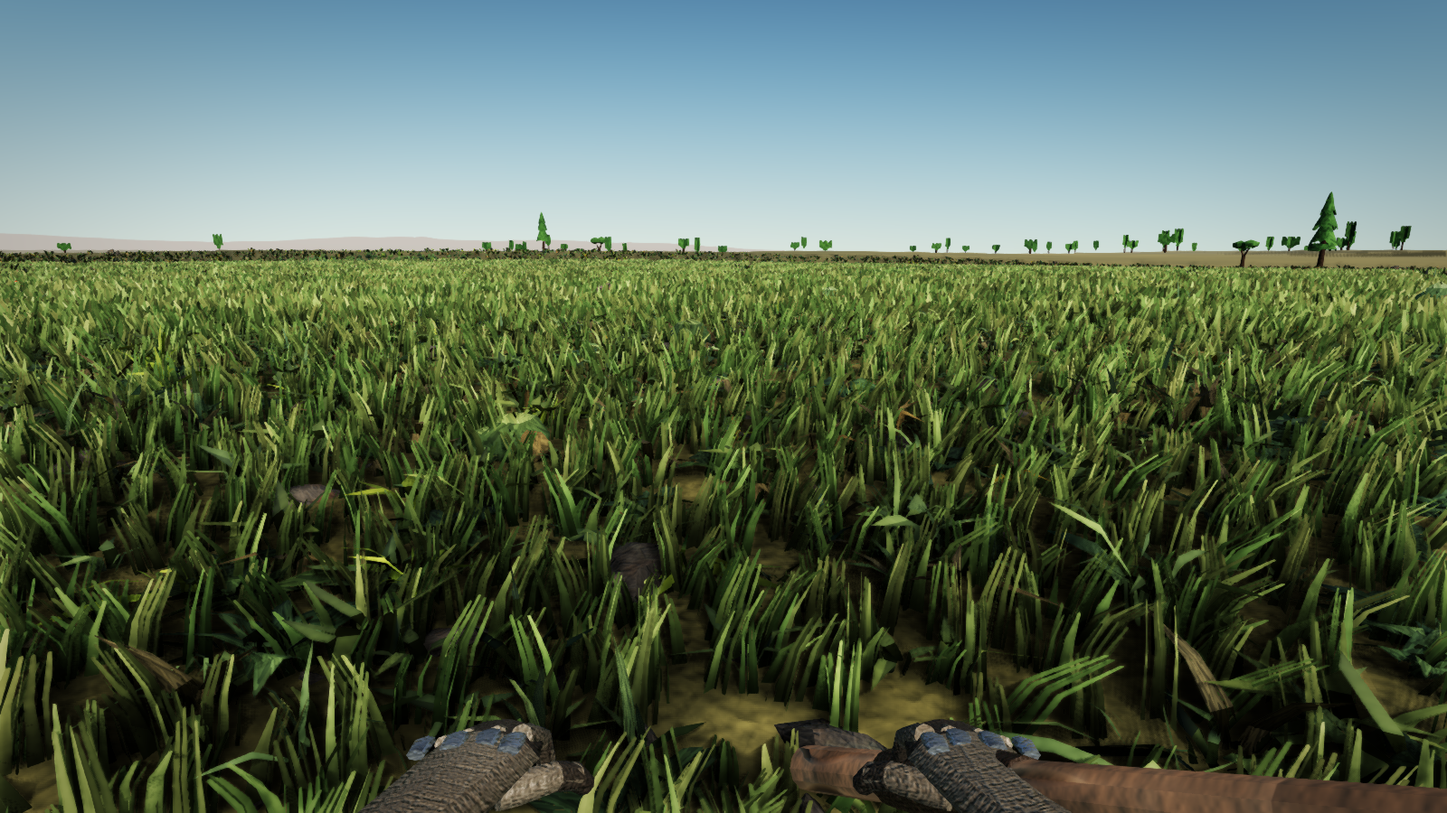
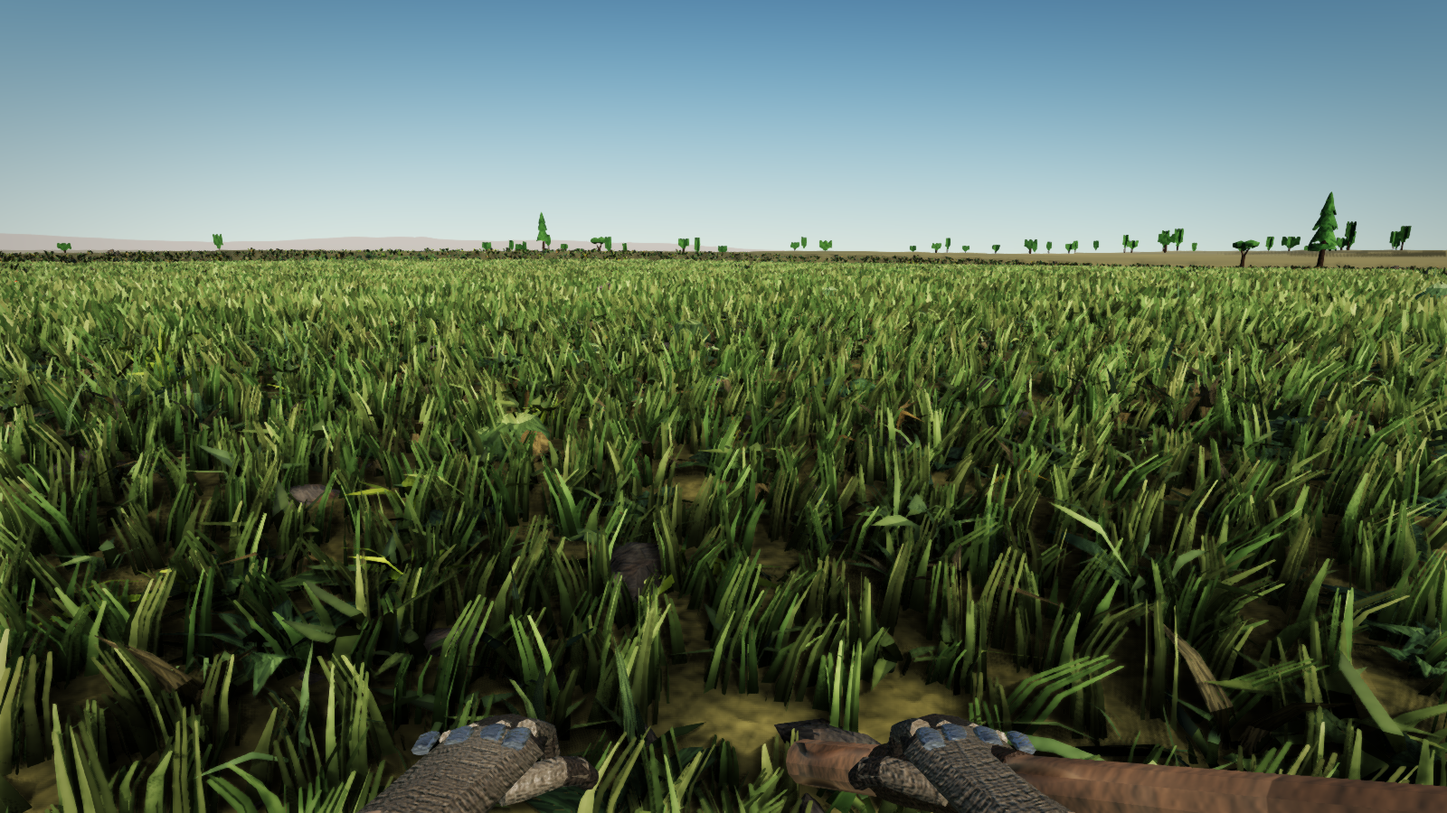
rendering: land the carpet's record (RN-2145)
rendering.md gains section 2.11 and a banner note; NUMBERS.md's RN-2145 row
carries the honest usage, RN-2153 to RN-2159 surrendered unused per rule 4.

Final hero frames re-taken on the shipped build (meadow, forestfloor, vista),
plus the four AO control arms and the ?grasstint=0 isolator, ten frames in all
at docs/screenshots/RN2145_*.

Systems.ts's addition trimmed from twelve lines to four, because that file was
ALREADY 418 lines against the 400 cap at the base commit and a lane should not
make a standing offender worse than it has to: 433 to 425.

Gates: tsc clean, vite build clean, npm run check 6 of 7 with only the
pre-existing check:limits red, check:probes PASS at 330 files, check:boot PASS.
Served on 127.0.0.1:5271 with a sentinel written into this worktree's own dist
and fetched back before the first probe; port ownership confirmed by
Get-NetTCPConnection. web/wasm/dist and test/expected.json untouched.

Changed region(s): [[0.5312, 0.8711, 0.9062, 1.0], [0.25, 0.8711, 0.4062, 1.0]]

diff --git a/web/src/app/Systems.ts b/web/src/app/Systems.ts
@@ -386,21 +386,12 @@ export function registerSystems(s: Services, loop: Loop): void {
     // rebased every 4 km, so a radius measured from it would put the foliage
     // ring kilometres away from the player.
     s.scatter.update(s.terrain.residentViews.values(), eye);
-    // RN-2145. The ground-cover carpet, on the same views and the same eye.
-    //
-    // PIXELS PER RADIAN IS PUSHED AND NOT ASSUMED. The carpet's fade is
-    // expressed in apparent size (GrassTuning's FADE_PX note: a fade constant
-    // must be derived from what it protects, RN-1855), so it needs the one
-    // quantity that turns metres at a range into pixels on this frame:
-    // drawingBufferHeight / (2 tan(fovY/2)). Reading it here rather than
-    // caching it is what makes the fade move with a resize instead of quietly
-    // becoming a metre value that was right once.
-    // `domElement.height` IS the drawing-buffer height (the canvas attribute,
-    // not the CSS box), so it already carries the device pixel ratio and does
-    // not need one applied.
-    const dbh = s.renderer.domElement.height;
+    // RN-2145. The carpet, same views, same eye. The third argument is pixels
+    // per radian (`domElement.height` IS the drawing buffer, so the device
+    // ratio is already in it); the carpet's fade is in apparent size and is
+    // read live so a resize moves it. See GrassCover.update and GrassTuning.
     s.grass.update(s.terrain.residentViews.values(), eye,
-      dbh / (2 * Math.tan((cam.fov * Math.PI) / 360)));
+      s.renderer.domElement.height / (2 * Math.tan((cam.fov * Math.PI) / 360)));
     // RN-821. THE STATION, recomposed from its f64 body-frame pose, every
     // frame, and never cached in engine space. Here rather than in `onDrain`
     // for the reason the vessel is here: the visibility gate is a distance

diff --git a/docs/controllers/rendering.md b/docs/controllers/rendering.md
@@ -1,6 +1,6 @@
 # Rendering & Graphics: Master Controller Context
 
-> **Domain owner:** `rendering-controller` | **Reports to:** Admin | **Phase:** WEB (three.js, DW-1 pivot) | **Last updated:** 2026-08-19 (RN-2065 to RN-2075 used of the RN-2065 to RN-2084 block, `lane/world-audit`: **THE WORLD LOOK AUDIT. THE WORLD IS FINISHED TO ABOUT FORTY METRES AND UNFINISHED PAST IT, AND NINE OF THE TEN CANONICAL FRAMES WERE TAKEN INSIDE THAT FORTY METRES.** Full ranked queue with evidence in [docs/web/WORLD-AUDIT-2026-08-19.md](../web/WORLD-AUDIT-2026-08-19.md), summarised in section 2.10 below. **FIVE NEW CANONICAL POSES** in `artframe.js` (`vista`, `vistadawn`, `vistanoon` at one pose one `sunDot` apart on a Mountains ridge; `flyover` at 1,200 m and `limb` at 120 km, both of which needed their own `--scenario=` because **`Controller.teleport` DISCARDS its altitude argument** and a walk-mode run would have photographed the ground with every field reading correct). **THE FOUR MEASUREMENTS THAT RANK THE QUEUE.** (1) **A `?atmos=0` NEGATIVE CONTROL SPLITS ONE APPARENT DEFECT INTO TWO**: at 1,200 m the horizon band reads iqr **20.08 with the atmosphere and 89.17 without** (the haze is taking **77.5%** of the distance) while the ground DIRECTLY BELOW reads **7.79 and 7.21**, i.e. the haze takes none of it and that flatness is terrain with no material to lose. Either finding alone would have been filed as the other. (2) **THE DAY ARC INVERTS THE FRAME**: at one fixed pose, sun 66.89 -> 44.31 -> 5.85 degrees, near scree luma **167.51 -> 134.14 -> 33.01** while the far ridge goes **205.31 -> 198.86 -> 231.51**, so the far-to-near ratio runs 1.23 -> 1.48 -> **7.01** and at dawn the distance is seven times brighter than the player's feet. (3) **THE SKY BRIGHTENS TOWARD THE SUN AND NEVER REDDENS**: the sun-side sky is **1.84x** the anti-sun side at a 5.85 degree sun (110.83 against 60.35, so the scattering integral does resolve direction and section 8 is a TUNING lane), while the horizon sky's `warm` moves **14.83 counts across 61 degrees of elevation** and sits at -86 at dawn. (4) **THE WORLD EMPTIES THE MOMENT THE EYE LEAVES THE GROUND**: `flyover` is **188,081 triangles at 1,200 m and 231,089 at 400 m** against **2,759,465** at a standing eye on plains, with not one tree in any aerial frame and both `?atmos=0` controls proving they are ABSENT rather than hazed. **AND THE COST CEILING IS ALREADY BREACHED WITHOUT ANY OF THIS**: that 2,759,465-triangle plains frame is 71 calls, over `StatsProbe`'s ALERT triangle threshold and over the 16.6 ms frame budget on every box measured, at a ratio of about 4.5x against the vista pose's cost (absolute milliseconds are box-and-run-dependent: this audit's p50 read 32.1 ms), at a standing eye with nothing built; `midfield` p99 is **64.6 ms**. **NOT ONE OF THE TOP FIVE GAPS NEEDS WEBGPU OR NATIVE**, and the audit says so with reasons rather than as an opinion: the two atmosphere gaps are shader-local in `ofAtmoAerial` and `TerrainFragLight`, the vegetation gap is a third baked LOD rung in a pipeline that already bakes LOD2, the shadow gap is a fourth cascade plus a heightfield horizon term, and the one plausible (c) is DISTANT GEOMETRIC relief, handed to the RN-2085 ceiling study with this lane's numbers attached. **TWO GREENS WORTH THE SAME WEIGHT AS THE REDS**: the `limb` frame at 120 km is **AT BAR** (ring luma 93.27, iqr 101.39, sat 0.626 over a 0.10 sky, 52,913 triangles, 21 calls, p50 1.1 ms) and the atmosphere is a real shared analytic integral rather than a gradient. **ONE LATENT DEFECT FOUND AND FIXED**: `artframe.js` read `of.game().mode` and `of.game()` is null with no gameplay, so the first shot ever run outside `--scenario=walk` died with a TypeError out of `page.evaluate` before any shot code ran. **`station` CAME BACK INTERIOR AGAIN** (`drawEyeDistM` 4.316; `alpha` varies per run and stays inside [0,1] -- this audit read 0.924 -- so the RN-2035 clamp is ruled out and INTERIOR is the stable fact), so section 2.8 R5 stays open and is re-flagged rather than re-diagnosed.) (**RN-2085 to RN-2090 used of the RN-2085 to RN-2099 block, `lane/ceiling-study`: THE BROWSER IS NOT THE BLOCKER, and the measurement says where the blocker is. Full document at [docs/web/CEILING-STUDY-2026-08-19.md](../web/CEILING-STUDY-2026-08-19.md); the decision row is RN-2085 in §3 below; the six questions for Reid are §7 of that document. Headline: ~10 ms/frame at `forestfloor` on a real D3D11 RTX 4060 Ti at 1600x900 against a 16.6 ms budget, 76 of 150 budgeted draw calls, 1.45 M of 2.7 M budgeted triangles, and 58.8 PER CENT OF EVERY TRIANGLE IN THE FRAME IS SHADOW-MAP GEOMETRY, which is §2.8 R2's already-diagnosed foliage-LOD defect and not a platform property. Two instruments landed, `web/tools/smoke/probes/ceiling.js` and `web/tools/smoke/ceilingsweep.mjs`; no game code.**) (Earlier the same day: RN-2050 to RN-2052 used of the RN-2050 to RN-2059 block, `lane/rn-resisters`, THE THREE RENDERING LINE-CAP RESISTERS DECOMPOSED RATHER THAN EXEMPTED, per Reid's ruling of the same day. `check:limits` **51 -> 48**, `cd web && npm run check` **6 of 7** with only the pre-existing `check:limits` red and `check:boot` green. **`TerrainMaterial.ts` 989 -> 53**, `createTerrainMaterials` (565 lines) decomposed into four named phases over one explicit state object whose type is `ReturnType<typeof buildTerrainUniformState>`, derived rather than declared so the two cannot drift; six siblings (`TerrainUniformState`, `TerrainProgram`, `TerrainArtHandle`, `TerrainAmpQuery`, `TerrainReliefQuery`, `TerrainMaterialTypes`). **`TerrainShader.ts` 884 -> 64**, the 690-line GLSL `main()` split into five named chunk constants concatenated in identical order (`TerrainFragPars/Setup/Albedo/Bump/Light.glsl.ts`), **proven BYTE-IDENTICAL** rather than merely pixel-close (real modules, log 90,439 chars sha256 `bdf0ec82...`, plain 90,372 sha256 `8fd8f416...`; an earlier stubbed-harness figure published in this row was corrected, see RN-2054). **`Scatter.ts` 714 -> 365**, the 200-line sampler and the nineteen counters given explicit state (`ScatterSample`, `ScatterCounters`, `ScatterTypes`); its `forestfloor` frame is **bit-identical** to a HEAD-source frame from a different build and process. **THE FINDING THAT GENERALISES IS ABOUT THE INSTRUMENT, NOT THE THREE FILES: a same-build pngdiff control taken inside ONE server process is not a noise band.** Two back-to-back `midfield` shots on one process measured 0.00% and looked like determinism; rebuilding the SAME HEAD source into a fresh process and re-shooting put the real same-source band at **0.00% to 2.94%** for `midfield` and **1.61% to 3.92%** for `forestfloor`. The same trap sits in the probe reports: **139 fields of the three terrain probes differ between HEAD and a HEAD REBUILD**, against 140 for the TerrainMaterial split, so a bare "N fields moved" reading would have condemned a behaviour-preserving change. See RN-2050 to RN-2054 in section 3 and NUMBERS.md's RN-2050 to RN-2059 row.)
+> **Domain owner:** `rendering-controller` | **Reports to:** Admin | **Phase:** WEB (three.js, DW-1 pivot) | **Last updated:** 2026-08-19 (**RN-2145 to RN-2152 used of the RN-2145 to RN-2159 block, `lane/a2-carpet`: THE GROUND-COVER CARPET, fidelity lane A2, closing the gap analysis section 1 difference 1. Two GPU-instanced rungs behind TWO draw calls, reusing texgen's existing grass card unchanged; every blade takes the terrain's own albedo beneath it and rotates it toward green AT CONSTANT LUMINANCE, so the fade cannot show as a value step; the fade itself is expressed in PIXELS of apparent card height and computed live from the camera, not typed in metres. Measured at the new `meadow` pose on real D3D11: 74,939 instances, +2 draw calls, +254,518 triangles (+9.2%), VRAM and programs unmoved, frame cost -0.44 ms against within-arm spreads of 3.83 and 2.10 and therefore NOT SEPARATED. Determinism proven by a full drop-and-rebuild round trip, digest identical. **THE LARGEST FINDING IS OWED TO LANE A1: screen-space AO takes 44 to 57 per cent of the carpeted ground's luminance against 31 to 32 per cent of the bare ground's, which is the whole difference between the carpet reading brighter than the ground it replaced (+14%, AO off) and darker (-7% at 8 m, -34% at 4 m, AO on).** Four defects were found by LOOKING and none of them by a number: the card mips to a solid wedge, the blades read as shark fins, the field reads as a pin cushion, the colour reads as a lawn. And the fixture was wrong before the feature was: `meadow`'s first rectangles landed at 3.8 to 11.8 m and never reached the mid field. Full record in section 2.11 below.**) (RN-2065 to RN-2075 used of the RN-2065 to RN-2084 block, `lane/world-audit`: **THE WORLD LOOK AUDIT. THE WORLD IS FINISHED TO ABOUT FORTY METRES AND UNFINISHED PAST IT, AND NINE OF THE TEN CANONICAL FRAMES WERE TAKEN INSIDE THAT FORTY METRES.** Full ranked queue with evidence in [docs/web/WORLD-AUDIT-2026-08-19.md](../web/WORLD-AUDIT-2026-08-19.md), summarised in section 2.10 below. **FIVE NEW CANONICAL POSES** in `artframe.js` (`vista`, `vistadawn`, `vistanoon` at one pose one `sunDot` apart on a Mountains ridge; `flyover` at 1,200 m and `limb` at 120 km, both of which needed their own `--scenario=` because **`Controller.teleport` DISCARDS its altitude argument** and a walk-mode run would have photographed the ground with every field reading correct). **THE FOUR MEASUREMENTS THAT RANK THE QUEUE.** (1) **A `?atmos=0` NEGATIVE CONTROL SPLITS ONE APPARENT DEFECT INTO TWO**: at 1,200 m the horizon band reads iqr **20.08 with the atmosphere and 89.17 without** (the haze is taking **77.5%** of the distance) while the ground DIRECTLY BELOW reads **7.79 and 7.21**, i.e. the haze takes none of it and that flatness is terrain with no material to lose. Either finding alone would have been filed as the other. (2) **THE DAY ARC INVERTS THE FRAME**: at one fixed pose, sun 66.89 -> 44.31 -> 5.85 degrees, near scree luma **167.51 -> 134.14 -> 33.01** while the far ridge goes **205.31 -> 198.86 -> 231.51**, so the far-to-near ratio runs 1.23 -> 1.48 -> **7.01** and at dawn the distance is seven times brighter than the player's feet. (3) **THE SKY BRIGHTENS TOWARD THE SUN AND NEVER REDDENS**: the sun-side sky is **1.84x** the anti-sun side at a 5.85 degree sun (110.83 against 60.35, so the scattering integral does resolve direction and section 8 is a TUNING lane), while the horizon sky's `warm` moves **14.83 counts across 61 degrees of elevation** and sits at -86 at dawn. (4) **THE WORLD EMPTIES THE MOMENT THE EYE LEAVES THE GROUND**: `flyover` is **188,081 triangles at 1,200 m and 231,089 at 400 m** against **2,759,465** at a standing eye on plains, with not one tree in any aerial frame and both `?atmos=0` controls proving they are ABSENT rather than hazed. **AND THE COST CEILING IS ALREADY BREACHED WITHOUT ANY OF THIS**: that 2,759,465-triangle plains frame is 71 calls, over `StatsProbe`'s ALERT triangle threshold and over the 16.6 ms frame budget on every box measured, at a ratio of about 4.5x against the vista pose's cost (absolute milliseconds are box-and-run-dependent: this audit's p50 read 32.1 ms), at a standing eye with nothing built; `midfield` p99 is **64.6 ms**. **NOT ONE OF THE TOP FIVE GAPS NEEDS WEBGPU OR NATIVE**, and the audit says so with reasons rather than as an opinion: the two atmosphere gaps are shader-local in `ofAtmoAerial` and `TerrainFragLight`, the vegetation gap is a third baked LOD rung in a pipeline that already bakes LOD2, the shadow gap is a fourth cascade plus a heightfield horizon term, and the one plausible (c) is DISTANT GEOMETRIC relief, handed to the RN-2085 ceiling study with this lane's numbers attached. **TWO GREENS WORTH THE SAME WEIGHT AS THE REDS**: the `limb` frame at 120 km is **AT BAR** (ring luma 93.27, iqr 101.39, sat 0.626 over a 0.10 sky, 52,913 triangles, 21 calls, p50 1.1 ms) and the atmosphere is a real shared analytic integral rather than a gradient. **ONE LATENT DEFECT FOUND AND FIXED**: `artframe.js` read `of.game().mode` and `of.game()` is null with no gameplay, so the first shot ever run outside `--scenario=walk` died with a TypeError out of `page.evaluate` before any shot code ran. **`station` CAME BACK INTERIOR AGAIN** (`drawEyeDistM` 4.316; `alpha` varies per run and stays inside [0,1] -- this audit read 0.924 -- so the RN-2035 clamp is ruled out and INTERIOR is the stable fact), so section 2.8 R5 stays open and is re-flagged rather than re-diagnosed.) (**RN-2085 to RN-2090 used of the RN-2085 to RN-2099 block, `lane/ceiling-study`: THE BROWSER IS NOT THE BLOCKER, and the measurement says where the blocker is. Full document at [docs/web/CEILING-STUDY-2026-08-19.md](../web/CEILING-STUDY-2026-08-19.md); the decision row is RN-2085 in §3 below; the six questions for Reid are §7 of that document. Headline: ~10 ms/frame at `forestfloor` on a real D3D11 RTX 4060 Ti at 1600x900 against a 16.6 ms budget, 76 of 150 budgeted draw calls, 1.45 M of 2.7 M budgeted triangles, and 58.8 PER CENT OF EVERY TRIANGLE IN THE FRAME IS SHADOW-MAP GEOMETRY, which is §2.8 R2's already-diagnosed foliage-LOD defect and not a platform property. Two instruments landed, `web/tools/smoke/probes/ceiling.js` and `web/tools/smoke/ceilingsweep.mjs`; no game code.**) (Earlier the same day: RN-2050 to RN-2052 used of the RN-2050 to RN-2059 block, `lane/rn-resisters`, THE THREE RENDERING LINE-CAP RESISTERS DECOMPOSED RATHER THAN EXEMPTED, per Reid's ruling of the same day. `check:limits` **51 -> 48**, `cd web && npm run check` **6 of 7** with only the pre-existing `check:limits` red and `check:boot` green. **`TerrainMaterial.ts` 989 -> 53**, `createTerrainMaterials` (565 lines) decomposed into four named phases over one explicit state object whose type is `ReturnType<typeof buildTerrainUniformState>`, derived rather than declared so the two cannot drift; six siblings (`TerrainUniformState`, `TerrainProgram`, `TerrainArtHandle`, `TerrainAmpQuery`, `TerrainReliefQuery`, `TerrainMaterialTypes`). **`TerrainShader.ts` 884 -> 64**, the 690-line GLSL `main()` split into five named chunk constants concatenated in identical order (`TerrainFragPars/Setup/Albedo/Bump/Light.glsl.ts`), **proven BYTE-IDENTICAL** rather than merely pixel-close (real modules, log 90,439 chars sha256 `bdf0ec82...`, plain 90,372 sha256 `8fd8f416...`; an earlier stubbed-harness figure published in this row was corrected, see RN-2054). **`Scatter.ts` 714 -> 365**, the 200-line sampler and the nineteen counters given explicit state (`ScatterSample`, `ScatterCounters`, `ScatterTypes`); its `forestfloor` frame is **bit-identical** to a HEAD-source frame from a different build and process. **THE FINDING THAT GENERALISES IS ABOUT THE INSTRUMENT, NOT THE THREE FILES: a same-build pngdiff control taken inside ONE server process is not a noise band.** Two back-to-back `midfield` shots on one process measured 0.00% and looked like determinism; rebuilding the SAME HEAD source into a fresh process and re-shooting put the real same-source band at **0.00% to 2.94%** for `midfield` and **1.61% to 3.92%** for `forestfloor`. The same trap sits in the probe reports: **139 fields of the three terrain probes differ between HEAD and a HEAD REBUILD**, against 140 for the TerrainMaterial split, so a bare "N fields moved" reading would have condemned a behaviour-preserving change. See RN-2050 to RN-2054 in section 3 and NUMBERS.md's RN-2050 to RN-2059 row.)
 
 
 
@@ -1861,6 +1861,167 @@ is ruled out). Section 2.8 R5 stays open: INTERIOR is the stable fact and the
 storyline's climax destination still has no judgeable exterior frame. Re-flagged
 rather than re-diagnosed, because it is not a world-graphics question and this
 lane had no mandate to reopen it.
+
+---
+
+## 2.11 THE GROUND-COVER CARPET (RN-2145 to RN-2152, 2026-08-19, `lane/a2-carpet`). FIDELITY LANE A2
+
+> Closes the gap analysis' **section 1 difference 1**: "the ground IS grass
+> there; here grass sits ON the ground", named there as roughly half the
+> perceived gap to the D-020 bar. Judged by the hero-frame process (gap doc
+> Option D), not by instrument deltas. Frames: `docs/screenshots/RN2145_*`.
+
+### 2.11.1 What it is
+
+A **separate layer from the prop scatter**, which keeps bushes and trees. Two
+GPU-instanced rungs behind **two draw calls**, both reusing texgen's existing
+`grass` family (`of_grass_a.png`, 1024, `alpha_test` 0.35): no new texture
+family, no `texgen.py` change, no `ROLE_FAMILY` entry.
+
+| rung | card | tris/instance | density | reach |
+|---|---|---|---|---|
+| tuft | 2 crossed quads, 2 height segments, 0.27 u span (3 painted blades) | 8 | `32 / (1 + d/10)^2` per m2 | 26 m, hands over from 20 m |
+| mat | 1 quad, 1 segment, full 11-blade span, 1.10 x 0.42 m | 2 | 1.55 per m2 flat | 95 m, fades in over 12 to 20 m |
+
+Files: `web/src/render/grass/{GrassTuning,GrassPalette,GrassCard,GrassGlsl,GrassMaterial,GrassPool,GrassSample,GrassCover}.ts`.
+Instruments: `web/tools/smoke/probes/{grasscover,grasswind}.js`. Pose:
+`artframe.js`'s new `meadow` row.
+
+### 2.11.2 The three rules that make it a carpet rather than denser scatter
+
+**COLOUR COMES FROM THE GROUND, AND THE FADE CANNOT SHOW AS A VALUE STEP.**
+Every instance samples `BiomePalette.terrainAlbedo` at its own cell (the
+acknowledged CPU twin of the four lines the terrain fragment draws the ground
+with) and rotates it toward green **at constant Rec.709 luminance**
+(`GrassPalette.coverAlbedo`). Worked: Plains `0x6d6a47` is linear (0.153, 0.144,
+0.063), luma 0.140; the rotation gives `#4E723E` at luma 0.140 exactly. So what
+is lost across the fade is chroma and texture, never light. **Measured with the
+one-flag isolator `?grasstint=0`** (blades exactly the substrate colour): the
+rotation costs 1 to 3 per cent of luma at every range rung, which is the
+luminance preservation working.
+
+**LIGHT COMES FROM THE SAME PLACE THE GROUND'S DOES.** The carpet is a
+`ShaderMaterial` holding `TERRAIN_AMBIENT`, `TERRAIN_SKY_AMBIENT`, the
+atmosphere record, `uBodyCenter` and `uCascadeFar` **by reference** (RN-64's
+argument, WaterMaterial's pattern), and inlining the same
+`TERRAIN_SUN_IRRADIANCE`. It is the **fifth ShaderMaterial on the DW-10 ledger**
+and the argument for it is lane A1's measurement: `StockFill.stockFloor` lights
+scattered props from the ambient FLOOR only and the sky-ambient weight never
+reaches an instance, so a carpet lit that way would sit in the old grey floor
+while the ground under it wore the sky tint.
+
+**THE FADE IS IN PIXELS, NOT METRES** (RN-1855's derive-do-not-type rule).
+`px = cardHeight * grow * (viewportH / (2 tan(fovY/2))) / dist`, computed live
+in the vertex shader from the camera's own pixels per radian, which `Systems`
+pushes each frame. At the reference viewport the window lands at about **60 to
+92 m**, and the metres are the consequence rather than the input.
+
+### 2.11.3 What the frames found that no number would have
+
+Four defects, each caught by looking and each recorded because the cause is
+reusable:
+
+1. **The card mipped to a solid wedge.** `texgen.py` widened the blade until the
+   coverage cleared the 0.35 cutoff so that "distant mips converge toward solid
+   rather than dissolving". Right for a prop card, wrong for a carpet whose
+   subject IS the gaps. Fixed by fewer wider blades per card (u span 0.42 to
+   0.27) plus a rescale of the sampled alpha about the cutoff; **the texture is
+   untouched, so no prop moves**. `?grasssharp=1` is the exact control.
+2. **Green shark fins.** A 0.18 m card over three blades is a 5 cm blade at
+   30 cm tall, aspect 1:6.7. 0.13 x 0.38 gives 1:10.6 and 6.3 px at 4 m, which
+   is as slim as FXAA-only alpha testing holds still (world-audit gap 17).
+3. **A pin cushion.** Vertical cards have straight silhouettes and nothing in a
+   meadow does. A per-instance LEAN combed by a common bearing derived from
+   PropWind's own phase vector moved the read more than any other change.
+4. **A lawn.** One green per biome measured sat 0.603 against bare ground's
+   0.526. Plains' rotation weight dropped to 0.74 and gained a per-instance DRY
+   DRIFT **along the same line toward the substrate**, so blades vary without
+   any of them being able to disagree with the ground. Now 0.576.
+
+**AND THE FIXTURE WAS WRONG BEFORE THE FEATURE WAS.** `meadow`'s first
+rectangles were hand-written fractions; inverting the range map afterwards put
+them at 3.8, 8.5 and 11.8 m, so **not one reached the mid field**, which is the
+band a carpet is most likely to leave bald and the band the judgement is about.
+At a 2 m eye, 25 to 60 m of ground is about seven pixels, so a hand-picked
+fraction cannot land there. They are `rangeRects [4, 10, 25, 55]` now.
+
+### 2.11.4 The numbers
+
+Real D3D11, RTX 4060 Ti through ANGLE, 1600x900, `meadow` pose (Plains
+-7.9675 / 116.53189, yaw 150, pitch -12, sun dot 0.699 measured):
+
+| quantity | value |
+|---|---|
+| instances | 74,939 (tuft 17,440, mat 57,499) over 25 chunks |
+| draw calls | **+2** (71 to 73), programs **unmoved at 44** |
+| triangles | **+254,518**, 2,762,904 to 3,017,422 (**+9.2%**) |
+| VRAM | **unmoved**, 104.2 MB |
+| resident chunks | **unmoved**, 330 |
+| refused / cells capped / backlog | 0 / 0 / 0 |
+| `placedPerM2` / `askedPerM2` / delivered | 2.12 / 1.89 / **1.123** |
+| frame cost (WG-189, 5 interleaved repeats, 400 frames) | **-0.44 ms against within-arm spreads of 3.83 and 2.10: NOT SEPARATED** |
+
+**The triangle number is the one to argue with, and it is stated as a breach.**
+The plains standing eye was **already over `StatsProbe`'s 2.7 M ALERT before
+this lane** (2,762,904; the world audit flagged the same pose at 2,759,465) and
+the carpet takes it to 3,017,422. Two things bound it and neither is an excuse:
+the carpet **casts no shadow**, so its triangles are drawn ONCE where a prop
+triangle is drawn four times (the ceiling study's 58.8 per cent), and 254,518 is
+**30 per cent of the 853,675 triangles that study priced as recoverable shadow
+waste**. The frame-cost gate the ceiling study asks for would have flagged this,
+and it still does not exist.
+
+**Determinism** (`probes/grasscover.js`, a real round trip and not a re-read:
+1.2 km away so every chunk is dropped, then back so every chunk is rebuilt from
+its own key): digest `54cbcf74-456b1741` to `6ab96204-f8849c97` away (the
+control is armed) to `54cbcf74-456b1741` back, **74,939 instances both times**.
+
+**Wind** (`probes/grasswind.js`, the clock pinned at three offsets in one
+settled sequence, mean per-tile luma change): carpet + props **3.77**, props
+only **2.28** (`?grass=0`), neither **0.63** (`?wind=0`). All three separate.
+The still arm is a control that WENT RED first: `?wind=0` drops PropWind's hook,
+which stops the props and cannot stop a `ShaderMaterial` reading the shared
+clock directly, so the carpet kept swaying with the flag off (34.59 counts where
+there must be none). The carpet now reads PropWind's `enabled`.
+
+### 2.11.5 THE FINDING THIS LANE OWES ANOTHER, AND IT IS THE LARGEST ONE HERE
+
+**Screen-space AO takes 44 to 57 per cent of the carpeted ground's luminance
+against 31 to 32 per cent of the bare ground's, and that alone is the difference
+between the carpet reading brighter than the ground it replaced and darker.**
+Four arms, one flag apart on one build, `meadow` `box`:
+
+| | AO on | AO off | AO takes |
+|---|---|---|---|
+| carpet off | 63.08 | 91.50 | 31.1% |
+| carpet on | 58.66 | 104.47 | **43.9%** |
+
+At the 4 m rung it is worse: bare 58.40 / 85.25 (31.5%), carpeted 38.26 / 89.26
+(**57.1%**). On `forestfloor`, where there is no direct sun to hide it, the
+carpeted floor reads **10.02 with AO on and 26.87 with it off**, against the
+bare floor's 23.98. **So the carpet is not darkening the ground; the AO is
+darkening the carpet.** This is the gap analysis' difference 3 (AO at strength
+0.9, radius 0.9 m reads as hard dark blobs) meeting a layer with real depth
+complexity. `render/post/*` is lane A1's and this lane did not touch it.
+
+### 2.11.6 The seam this lane publishes to A3, and the honest partial result
+
+`GrassPalette.coverAlbedo(substrate, biome, out, dry)` and the `COVER` table are
+**the carpet side of the fade-target contract**. A3's far-field grass layer
+should target `coverAlbedo` at the fade end, and then far ground and near carpet
+agree by construction rather than by tuning.
+
+**Until it does, the residual is real and is visible in the frame:** past the
+fade the ground is the bare biome substrate again, and on the meadow pose that
+is a khaki band along the horizon where the green stops. The luminance-matched
+rotation means it is a CHROMA step and not a value step, and the aerial
+perspective has already taken most of the chroma out by then, but it is there.
+**This lane cannot close it from its own files without repainting the biome
+palette, which is RN-347's decision and A3's ground.**
+
+Two more stated limits: the carpet **casts no shadow** (deliberate, see the
+triangle note), and at 2 to 4 m there is still bare substrate visible between
+blades. The near field reads as a meadow; it does not yet read as turf.
 
 ---
 

diff --git a/docs/web/NUMBERS.md b/docs/web/NUMBERS.md
@@ -252,7 +252,7 @@ is that the numbers are handed out by one writer before the work starts.
 | BT-265 to BT-269 | build-tooling, the EIGHTH invocation-header instance's lesson (BT-260's shadowk truncation): check-invocations.mjs only checks that extractCmd returns something, never that the command is well-formed, so a truncated or quote-broken extraction passes the gate; extend the gate (or a sibling) to run flagsOf on the extraction and JSON.parse any --evalargs value, failing loudly on loss or parse error, proven both ways on the shadowk pre-fix shape | **BT-265 USED**, `lane/verdict-integrity`, 2026-08-19. `check-invocations.mjs` gained `wellFormednessDefects()`: every documented command's flag section is re-tokenised and every token must be a real `--flag`/`--flag=value` (`probeall.mjs`'s own `FLAG_TOKEN_RE`, exported rather than re-derived) or a documented benign marker the corpus already uses on purpose (a trailing `#` shell comment, a `\|` pipe into a second command, a `[--flag=value]` bracket-wrapped optional -- each confirmed against real headers, `deepgate.js`/`goalmoot.js`/`lifeless.js`, `artframe.js`/`stationdraw.js`/`sunshot.js`, `map3d.js`, before being allowlisted, not invented speculatively); every `--evalargs` value is `JSON.parse`d. `probeall.mjs`'s `flagsOf()` exported (was module-private) so the gate reuses the exact tokeniser the sweep itself uses. **Proven both ways, against the REAL file, not a synthetic stand-in**: `shadowk.js` was temporarily edited back to its literal BT-260 pre-fix header (uncommitted, restored after), and the real `check-invocations.mjs` scan caught it by name, `MALFORMED_INVOCATION`, `"--evalargs value is not valid JSON"`; restored, the scan passed clean again. **Building the check surfaced a NINTH, previously undetected instance of the invocation-header class**: `clamprestore.js` carried a stray literal `//` embedded mid-invocation (`--debug=1 //     --evalfile=...`, a merge artifact from collapsing two comment lines into one without stripping the second line's `//` prefix), fixed by restoring the missing line continuation. Corpus-wide after both fixes: 326 probe files, 314 documented, 12 exempt, **0 offenders**. `cd web && npm run check` 6/7, only the pre-existing `check:limits` red. |
 | GP-1070 to GP-1074 | gameplay/probes, two content reds surfaced by verifiers in passing, both pre-existing: clamprestore.js returns an honest RED on a content check unrelated to its BT-265 header fix (diagnose what the check expects against what the game does, fix probe or route the game bug); and probes/cheats.js carries a stale keybinding assertion flagged by the GP-1060 lane (re-aim or reclassify per census conventions) | landed, `lane/probe-reds-2`, 2026-08-19. Both were stale probe assumptions, not game regressions, no bug routed. clamprestore.js: `list[0]` stopped being the rocket once PH-380/D-015 gave Anchorage a real registry record; `promoteVessel` refuses a station by design, so the fixture now selects by `status !== 'station:anchorage'`. cheats.js: `demolish === 'X+Right click'` never caught up to GP-605, which moved Mouse2 to the separate `demolishAsk` action; re-aimed to assert both codes by name. GP-1070/1071 used on clamprestore, GP-1072/1073 on cheats.js, GP-1074 unused (abandoned per this file's own rule). 3/3 green each. |
 | BT-275 to BT-284 | build-tooling/cross-domain, PILOT on the BT-42 line-cap debt that has kept check:limits red for hundreds of commits (54 files over the 400-line cap): split the WORST THREE files into cohesive modules with behaviour-preserving refactors only, each split proven by the probes that exercise the file plus tsc and the full check suite, as a template for retiring the debt file by file; if a file resists cohesive splitting, record why rather than forcing an arbitrary cut | **BT-275 to BT-278 USED**, `lane/limits-pilot`, 2026-08-19. **BT-279 to BT-284 unused, abandoned per rule 4.** `check:limits` **54 -> 51**, `cd web && npm run check` 6/7 with only `check:limits` red, and every other link green (`check:roles` green after BT-278, see below). **THE HEADLINE FINDING, and it is about the DEBT and not about the three files: the top of the list is not splittable.** Of the eight worst offenders, SIX resist a behaviour-preserving cut because essentially the whole file is the body of ONE thing, and rule 1 forbids carving a function mid-body: `TerrainMaterial.ts` 989 (`createTerrainMaterials` is 565 lines, and the ~363 lines of `*FromQuery` helpers above it are movable but leave 615), `DebugGameplay.ts` 895 (`gameplayApi` is 850 of them, a single `return {50 methods}`), `TerrainShader.ts` 884 (134 lines of GLSL declarations plus ONE 690-line GLSL `main()`; the file's own documented extract-a-chunk-to-a-sibling mechanism reaches only 750, and every further cut goes through `main()`'s body), `Boot.ts` 822 (`boot()` is 713, one order-dependent async construction sequence), and by the same shape `Gameplay.ts` 736 and `Scatter.ts` 715 (one class each). **So the 51 remaining reds are not 51 files of the kind this lane retired**, and a plan that assumes the pilot's rate is wrong: the ones that split cleanly are files with many top-level declarations, and the ones left over need either a cap exemption, a rule that measures something other than raw lines, or a genuine decomposition that is not a refactor. **The three that were split** (worst-first, skipping the resisters): `TerrainArt.glsl.ts` **1117 -> 156** into `TerrainBump/TerrainRelief/TerrainWet/TerrainTex.glsl.ts` (BT-275), `Surfaces.ts` **1047 -> 365** into `SurfaceRoles/SurfaceManifest/SurfaceTextures/SurfaceBind/SurfaceUv.ts` (BT-276), `SpaceStation.ts` **776 -> 235** into `StationProxies/StationVessel/StationInstall.ts` (BT-277). **THE TEMPLATE, in four rules.** (1) **Split along the STATE, not along the reading order.** An ES module binding is read-only for an importer, so a `let` cannot move away from the code that reassigns it, while a `const` array/Map/object can move anywhere because callers only ever MUTATE it and the identity is the same object. Every group above is drawn so that each `let` travels with its single writer (`uvCopied` with `copyUv`, `manifest` with `ready`, `learned`/`spawns` with `learnStationProxies`), and the one cycle that would have formed (`stateOfDocked` needs `lastStationSolid`; `installStation` needs `findStation`) was avoided by leaving `stateOfDocked` at the top of the DAG rather than by importing in both directions. (2) **Do the move with a SCRIPT over line ranges, never by hand**, so the moved bytes are provably the bytes that left; then verify independently by re-extracting the same ranges from the pre-split file **out of git** and requiring them verbatim in the new module (1691 moved lines across the three files, all verbatim; the only edits to moved text were 30 `export ` prefixes on declarations that now cross a file boundary, each asserted by the script to match exactly once). (3) **Prefer a proof the pixels cannot give you.** For `TerrainArt.glsl.ts` the decisive one was compiling the module before and after and hashing every export: 41 exports, surface sha256 `7afb40f1...` identical, `TERRAIN_ART_PARS` identical at 28894 characters. For a module that is GLSL text and constants that is stronger than any frame. (4) **Every pngdiff needs a same-build control taken in the SAME session**, because the run-to-run floor moves: `forestfloor` measured 0.67% cross-build against 0.64% same-build for BT-275, and **0.94% against 0.94%** for BT-276 (where the raw 0.94% would have looked alarming on its own, and where the two diffs differ only in which run happened to be the lighter one); the `station` shot was 0.23% for BT-277. In all three the shot's own numeric box decode was identical to the digit. **Probes, before and after at their documented invocations**, against a dev server on 127.0.0.1:4291 owned by this worktree and sentinel-checked (BT-260's lesson): `terrainspec.js`/`reliefgrad.js`/`reliefsweep.js` PASS->PASS with `survivedRatio 0.804` and `bestTexels 64` unmoved; `maps.js`/`machinefam.js`/`platetile.js` PASS->PASS with the whole surface report identical field for field (`uv copied 600`, `vramMB 48`, `tableAgreesWithManifest true`, the same 23 material families in the same order); `stationpose.js`/`stationride.js`/`docking.js` PASS->PASS, `fails []`, every `angleDeg` still at the 1e-6 degree floor. **BT-278, THE ONE THING THAT BROKE, and it is the interesting one**: `check-roles.mjs` reads `ROLE_FAMILY` by TEXT-SCRAPING the hardcoded path `web/src/render/instancing/Surfaces.ts`, so BT-276 turned it red with `no const ROLE_FAMILY found`. **It failed the way it was built to** -- its own header names "a path that moved" as a case it must report as a failure rather than as a clean sweep over an empty set -- and it was the ONLY thing in the repo that noticed a file had moved. Repointed at `SurfaceRoles.ts` (16 message/comment sites plus the path), self-test still 7/7, positive control reports 54 client roles parsed so it is not passing vacuously; the stale prose pointer in `tools/blender/build_player_body.py` corrected alongside. **The generalisable warning for the next lane doing this: grep the build scripts and the probe corpus for the file's PATH before splitting it, because a text-scraping gate is invisible to `tsc`.** |
-| RN-2145 to RN-2159 | rendering, FIDELITY LANE A2 per the gap analysis and Reid's approval: the ground-cover carpet. GPU-instanced grass blades and tufts at meadow density near the camera, colour sampled from the terrain beneath each instance so ground and cover cannot disagree, wind, fading by 60 to 100 m toward the terrain's grass layer; hero-frame judged (the meadow pose must stop reading as clumps on a table); perf held inside the ceiling study's measured headroom | allocated by Admin 2026-08-19 at dispatch |
+| RN-2145 to RN-2159 | rendering, FIDELITY LANE A2 per the gap analysis and Reid's approval: the ground-cover carpet. GPU-instanced grass blades and tufts at meadow density near the camera, colour sampled from the terrain beneath each instance so ground and cover cannot disagree, wind, fading by 60 to 100 m toward the terrain's grass layer; hero-frame judged (the meadow pose must stop reading as clumps on a table); perf held inside the ceiling study's measured headroom | allocated by Admin 2026-08-19 at dispatch. **RN-2145 to RN-2152 USED**, `lane/a2-carpet`, 2026-08-19, base `origin/main` at f2a5e02f. Full record in [rendering.md](../controllers/rendering.md) section 2.11; frames `docs/screenshots/RN2145_*`. THE SYSTEM: a separate layer from the prop scatter (which keeps bushes and trees), two GPU-instanced rungs behind TWO draw calls (`web/src/render/grass/*`), reusing texgen's existing `grass` family unchanged, so no `texgen.py` edit and no new `ROLE_FAMILY` entry. THREE RULES: (1) every instance samples `BiomePalette.terrainAlbedo` beneath it and rotates it toward green AT CONSTANT Rec.709 LUMINANCE, so the fade to bare substrate cannot show as a value step (`?grasstint=0`, the exact isolator, measures the rotation at 1 to 3 per cent of luma); (2) the carpet lights itself from the terrain's OWN shared uniform objects rather than through `StockFill`, because lane A1 measured that the props' fill path never sees the sky ambient at all (fifth `ShaderMaterial` on the DW-10 ledger, argued rather than assumed); (3) the fade is in PIXELS of apparent card height, computed live from the camera's own pixels per radian, RN-1855's derive-do-not-type rule; the roughly 60 to 92 m window is the consequence and not the input. MEASURED at the new `meadow` pose (Plains standing eye, the frame the SE comparison is actually about and the one no shot in `artframe.js` could take), real D3D11 RTX 4060 Ti through ANGLE, 1600x900: **74,939 instances (tuft 17,440, mat 57,499) over 25 chunks, draw calls 71 to 73 (+2), programs UNMOVED at 44, triangles 2,762,904 to 3,017,422 (+254,518, +9.2%), VRAM unmoved at 104.2 MB, resident chunks unmoved at 330, 0 refused / 0 cells capped / 0 backlog, placedPerM2 2.12 over askedPerM2 1.89 for a delivery ratio of 1.123** (asserted inside [1.00, 1.45] and NOT described as 1.0: the builder rounds each cell UP because the shader's per-instance threshold needs a monotone supply). **FRAME COST, WG-189 interleaved, 5 repeats of 400 frames, arms `base` and `grass=0`: median -0.44 ms against within-arm spreads of 3.83 and 2.10 ms on a 22.4 ms baseline, NOT SEPARATED and reported as unseparated rather than as a number.** THE TRIANGLE FIGURE IS STATED AS A BREACH: this pose was ALREADY over `StatsProbe`'s 2.7 M ALERT before the lane (2,762,904, and the world audit read 2,759,465 at the same site) and the carpet takes it to 3,017,422; bounding it, the carpet CASTS NO SHADOW so its triangles draw once where a prop triangle draws four times, and 254,518 is 30 per cent of the 853,675 the ceiling study priced as recoverable shadow waste. DETERMINISM, a real round trip and not a re-read (`probes/grasscover.js`: 1.2 km away so every chunk is dropped, then back so every chunk is rebuilt from its own key): digest `54cbcf74-456b1741` to `6ab96204-f8849c97` away (the control is armed) to `54cbcf74-456b1741` back, 74,939 instances both times. The digest hashes each block in KEY order rather than the packed buffer in buffer order, because packing order is a property of how chunks happened to stream in. WIND (`probes/grasswind.js`, the clock pinned at three offsets inside one settled sequence, mean per-tile luma change): carpet + props 3.77, props only 2.28 (`?grass=0`), neither 0.63 (`?wind=0`); all three separate. **AND THE STILL ARM WENT RED FIRST, WHICH IS THE POINT OF HAVING IT:** `?wind=0` drops PropWind's hook, which stops the props and cannot stop a `ShaderMaterial` reading the shared clock directly, so the carpet kept swaying with the flag off at 34.59 counts where there must be none. Fixed by exporting PropWind's `enabled`; the emitted prop GLSL is byte-identical either way. The claim is on the MEAN and not the MAX because one tile in this frame moves 30-plus counts in EVERY arm including the still one (RN-1906's outlier contamination); the max is reported so the outlier is visible. **THE LARGEST FINDING IS OWED TO LANE A1 AND THIS LANE DID NOT TOUCH `render/post/*`: screen-space AO takes 44 to 57 per cent of the CARPETED ground's luminance against 31 to 32 per cent of the BARE ground's.** Four arms one flag apart on one build, `meadow` box: carpet off 63.08 on / 91.50 off (AO takes 31.1%), carpet on 58.66 / 104.47 (43.9%); at the 4 m rung 58.40 / 85.25 (31.5%) against 38.26 / 89.26 (57.1%); on `forestfloor`, where no direct sun hides it, the carpeted floor reads 10.02 with AO on and 26.87 with it off against the bare floor's 23.98. So the carpet is not darkening the ground, the AO is darkening the carpet, and with AO off the carpet lands +14 per cent on the ground it replaced, which is the luminance-matched colour rule working. FOUR DEFECTS FOUND BY LOOKING AND NONE BY A NUMBER, each recorded because the cause is reusable: the card MIPS TO A SOLID WEDGE (texgen widened the blade so distant mips converge toward solid, which is right for a prop card and wrong for a carpet whose subject is the gaps; fixed with fewer wider blades per card plus an alpha rescale about the cutoff, texture untouched so no prop moves, `?grasssharp=1` is the control); GREEN SHARK FINS (a 5 cm blade at 30 cm tall is 1:6.7, a succulent; 0.13 x 0.38 gives 1:10.6 and 6.3 px at 4 m, which is as slim as FXAA-only alpha testing holds still); A PIN CUSHION (vertical cards have straight silhouettes; a per-instance lean combed by a bearing derived from PropWind's own phase vector moved the read more than anything else); A LAWN (one green per biome measured sat 0.603 against bare ground's 0.526, now 0.576 with a per-instance dry drift ALONG THE SAME LINE toward the substrate). **AND THE FIXTURE WAS WRONG BEFORE THE FEATURE WAS:** `meadow`'s first rectangles were hand-written fractions and inverting the range map put them at 3.8, 8.5 and 11.8 m, so not one reached the mid field, which is the band a carpet is most likely to leave bald and the band the whole judgement is about; at a 2 m eye, 25 to 60 m of ground is about seven pixels. They are `rangeRects [4, 10, 25, 55]` now, placed live off the capture's own observer. THE HONEST PARTIAL RESULT, stated because the charter asks for it: past the fade the ground is the bare biome substrate again, which on the meadow pose is a khaki band along the horizon. The luminance-matched rotation makes it a CHROMA step and not a value step and the aerial perspective has taken most of the chroma out by then, but it is there, and this lane cannot close it from its own files without repainting the biome palette, which is RN-347's decision and A3's ground. `GrassPalette.coverAlbedo` and the `COVER` table are the carpet side of that seam and A3 should target them. Two further stated limits: no shadow casting (deliberate), and bare substrate is still visible between blades at 2 to 4 m. GATES: `npx tsc --noEmit` clean, `vite build` clean, `cd web && npm run check` **6 of 7** with only the PRE-EXISTING `check:limits` red (`Systems.ts` was already 418 lines against the 400 cap at the base commit and this lane took it to 425, which is disclosed rather than hidden; no file in `render/grass/` exceeds 315 lines), `check:probes` PASS at 330 probe files, `check:boot` PASS. Served from a `vite preview` this lane owns on 127.0.0.1:5271, `--strictPort`, sentinel `dist/of-sentinel-rn2145.txt` written into this worktree's own dist and fetched back before the first probe, port ownership confirmed by `Get-NetTCPConnection -LocalPort 5271`, killed by that PID. `web/wasm/dist` and `test/expected.json` untouched. **RN-2153 to RN-2159 SURRENDERED UNUSED** (abandoned per rule 4, never reuse). Recorded by the lane per rule 5. |
 | RN-2160 to RN-2174 | rendering/art, FIDELITY LANE A3 PHASE 1 per the gap analysis: terrain PBR layers. Source four to six CC0 Polyhaven texture sets (grass, dirt, rock, cliff, scree, snow), route them through texgen for byte-deterministic shipping, and build the near-field slope/altitude/biome splat in the terrain shader; the far-field extension is phase 2; hero-frame judged (the ground must read as a material, not tinted noise) | allocated by Admin 2026-08-19 at dispatch |
 | RN-2130 to RN-2144 | rendering, FIDELITY LANE A1 per the gap analysis (docs/web/FIDELITY-GAP-2026-08-19.md) and Reid's go-ahead: the image pipeline. Exposure and tone response tuned per sun elevation, a colour-grading pass with a chosen palette, AO softened from black blobs to coloured occlusion, shadow ambient fill from a sky colour, bloom restraint. Judged by the hero-frame process: side-by-side sheets of the three hero poses (meadow standing eye on plains, ridge vista, dawn) against the section 1 numbered differences, not against instrument deltas; instruments are regression rails only | allocated by Admin 2026-08-19 at dispatch |
 | RN-2100 to RN-2114 | rendering, GRAPHICS LANE L1 from the world audit, HAZE: the aerosol term is referenced to a fixed 400 m above the ray's lower end and takes 77.5 per cent of the horizon's contrast (audit measurement, reproduced by its verifier), worsening with altitude; and the low-sun arc inverts the frame (far/near luma ratio 7.01 at dawn against 1.23 at noon). Re-reference the aerosol to the true ray geometry and fix the near-ground dawn darkness so a low sun lights the player's ground; shader-local in ofAtmoAerial and TerrainFragLight per the audit; prove with the vista/vistadawn/vistanoon and flyover poses before and after, fresh-process noise bands, and the atmos=0 negative control | allocated by Admin 2026-08-19 at dispatch |
